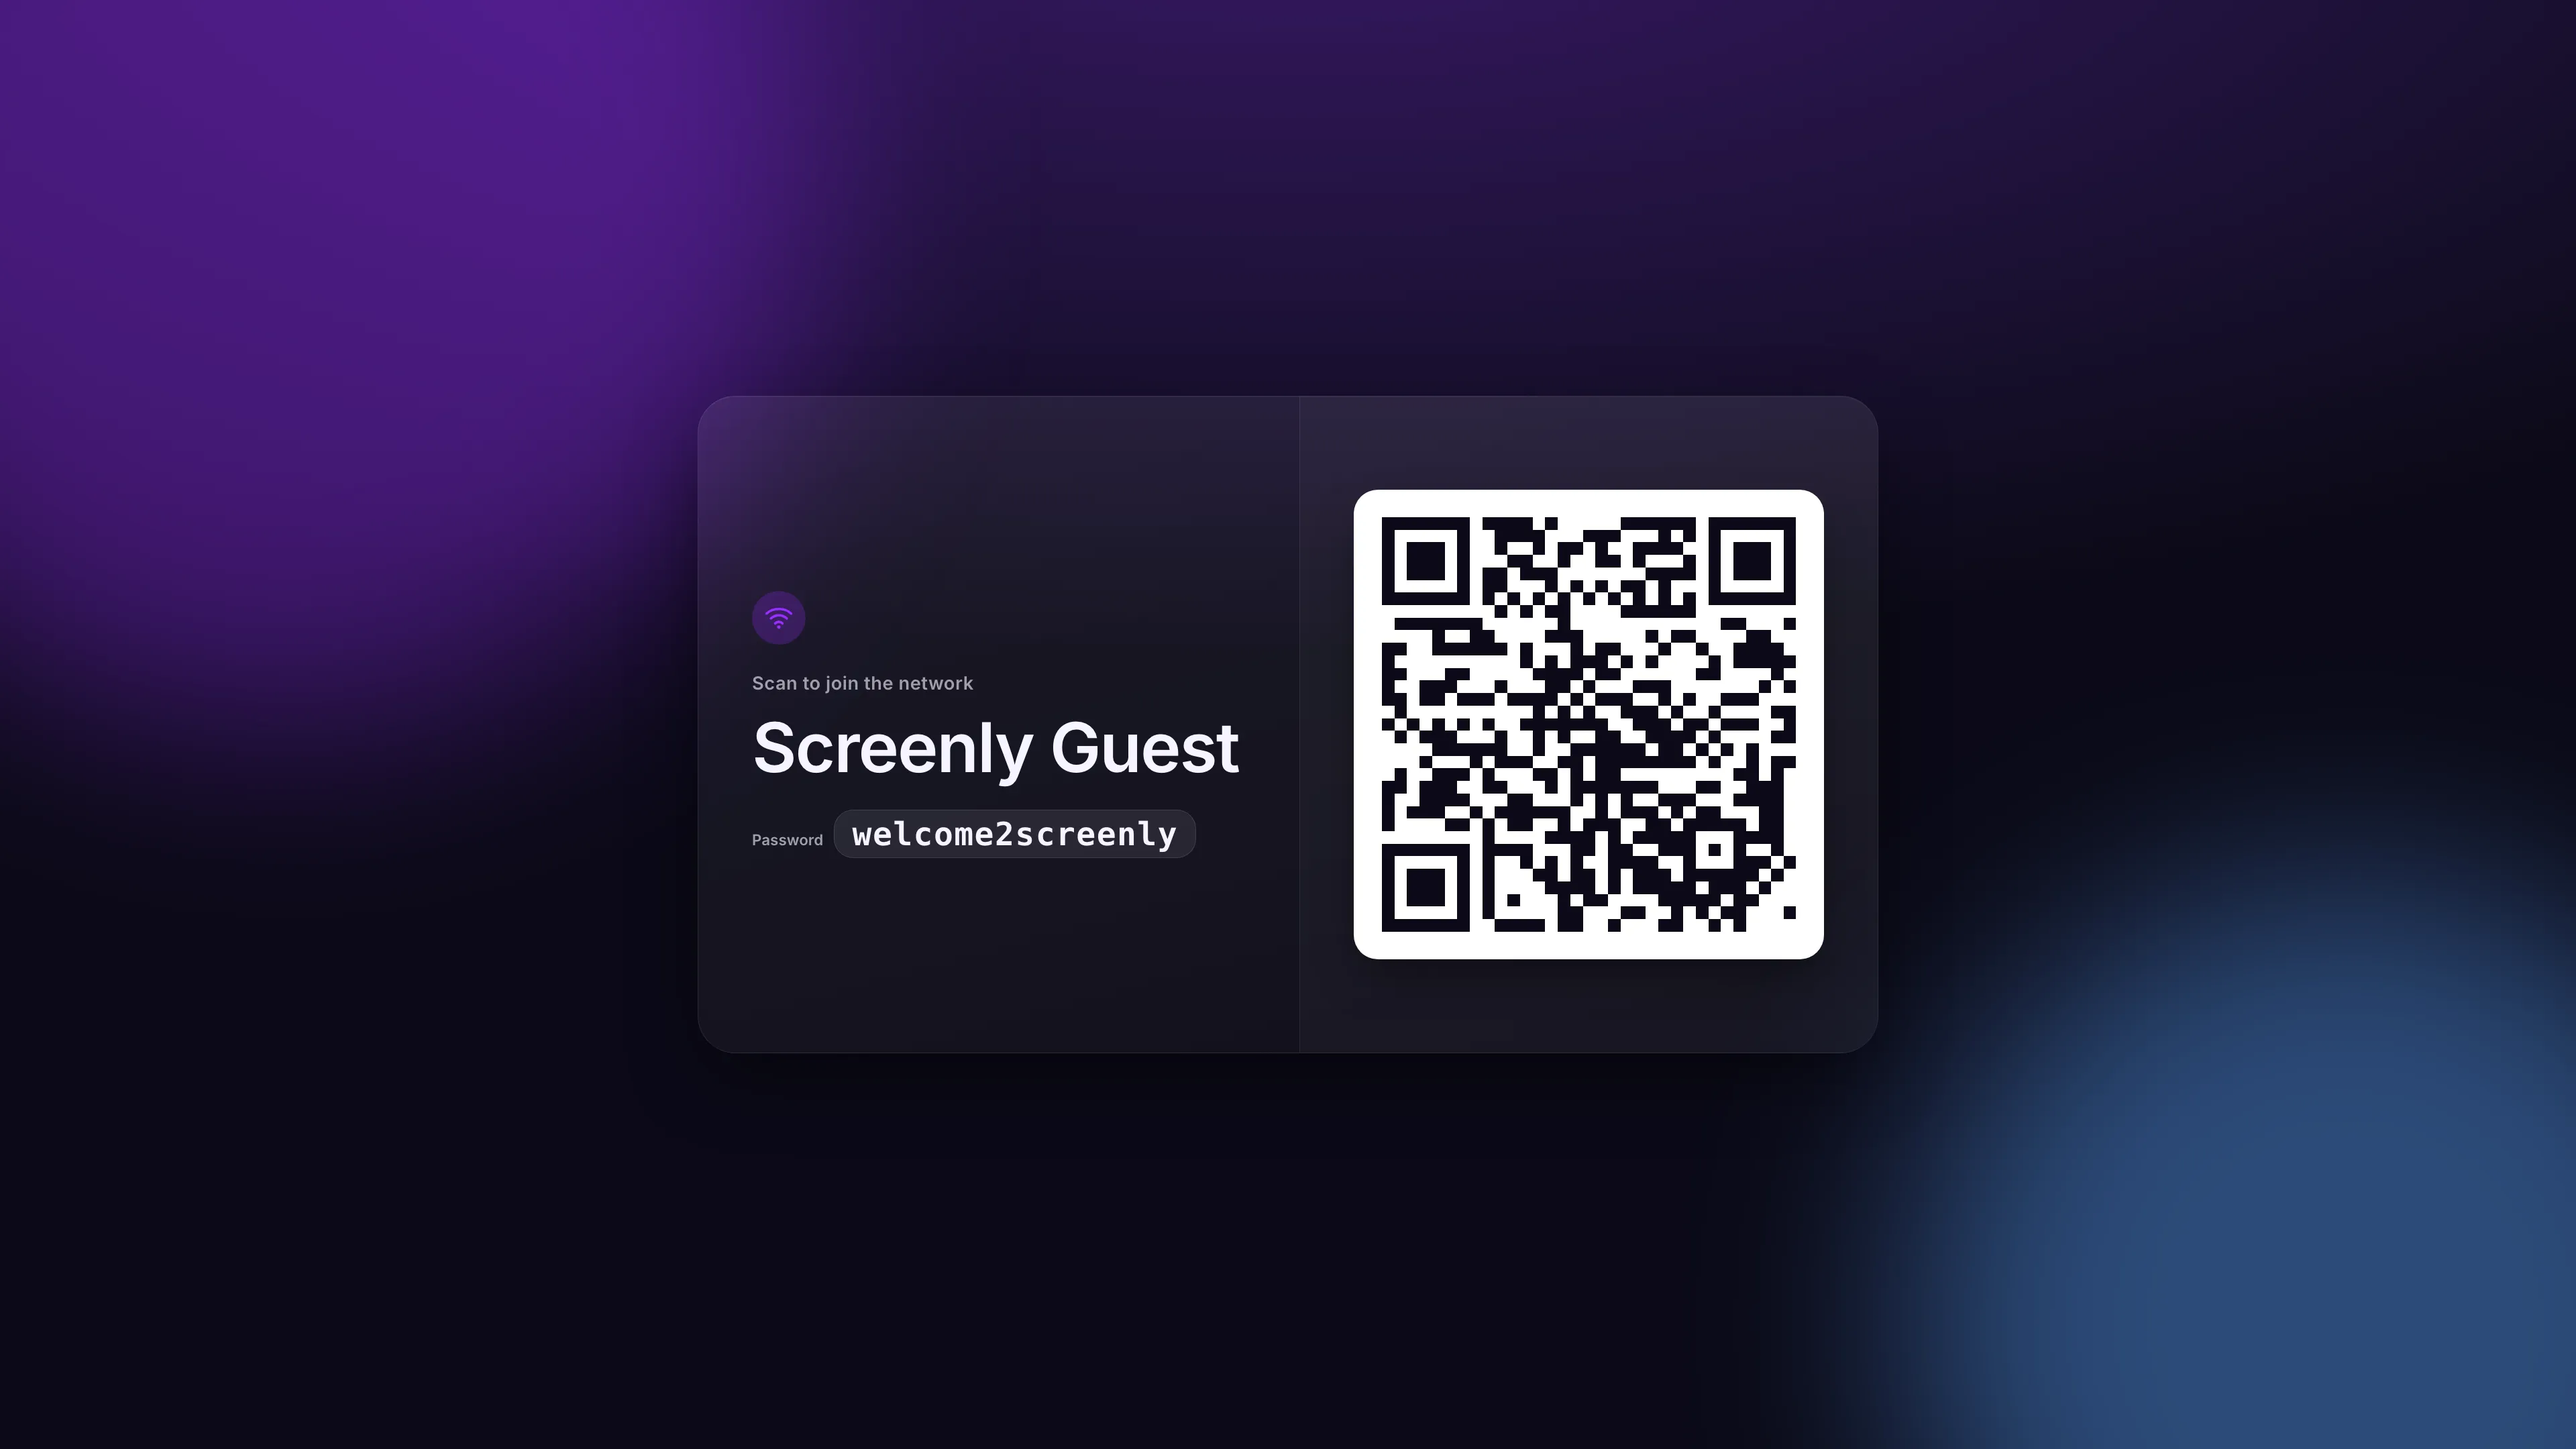
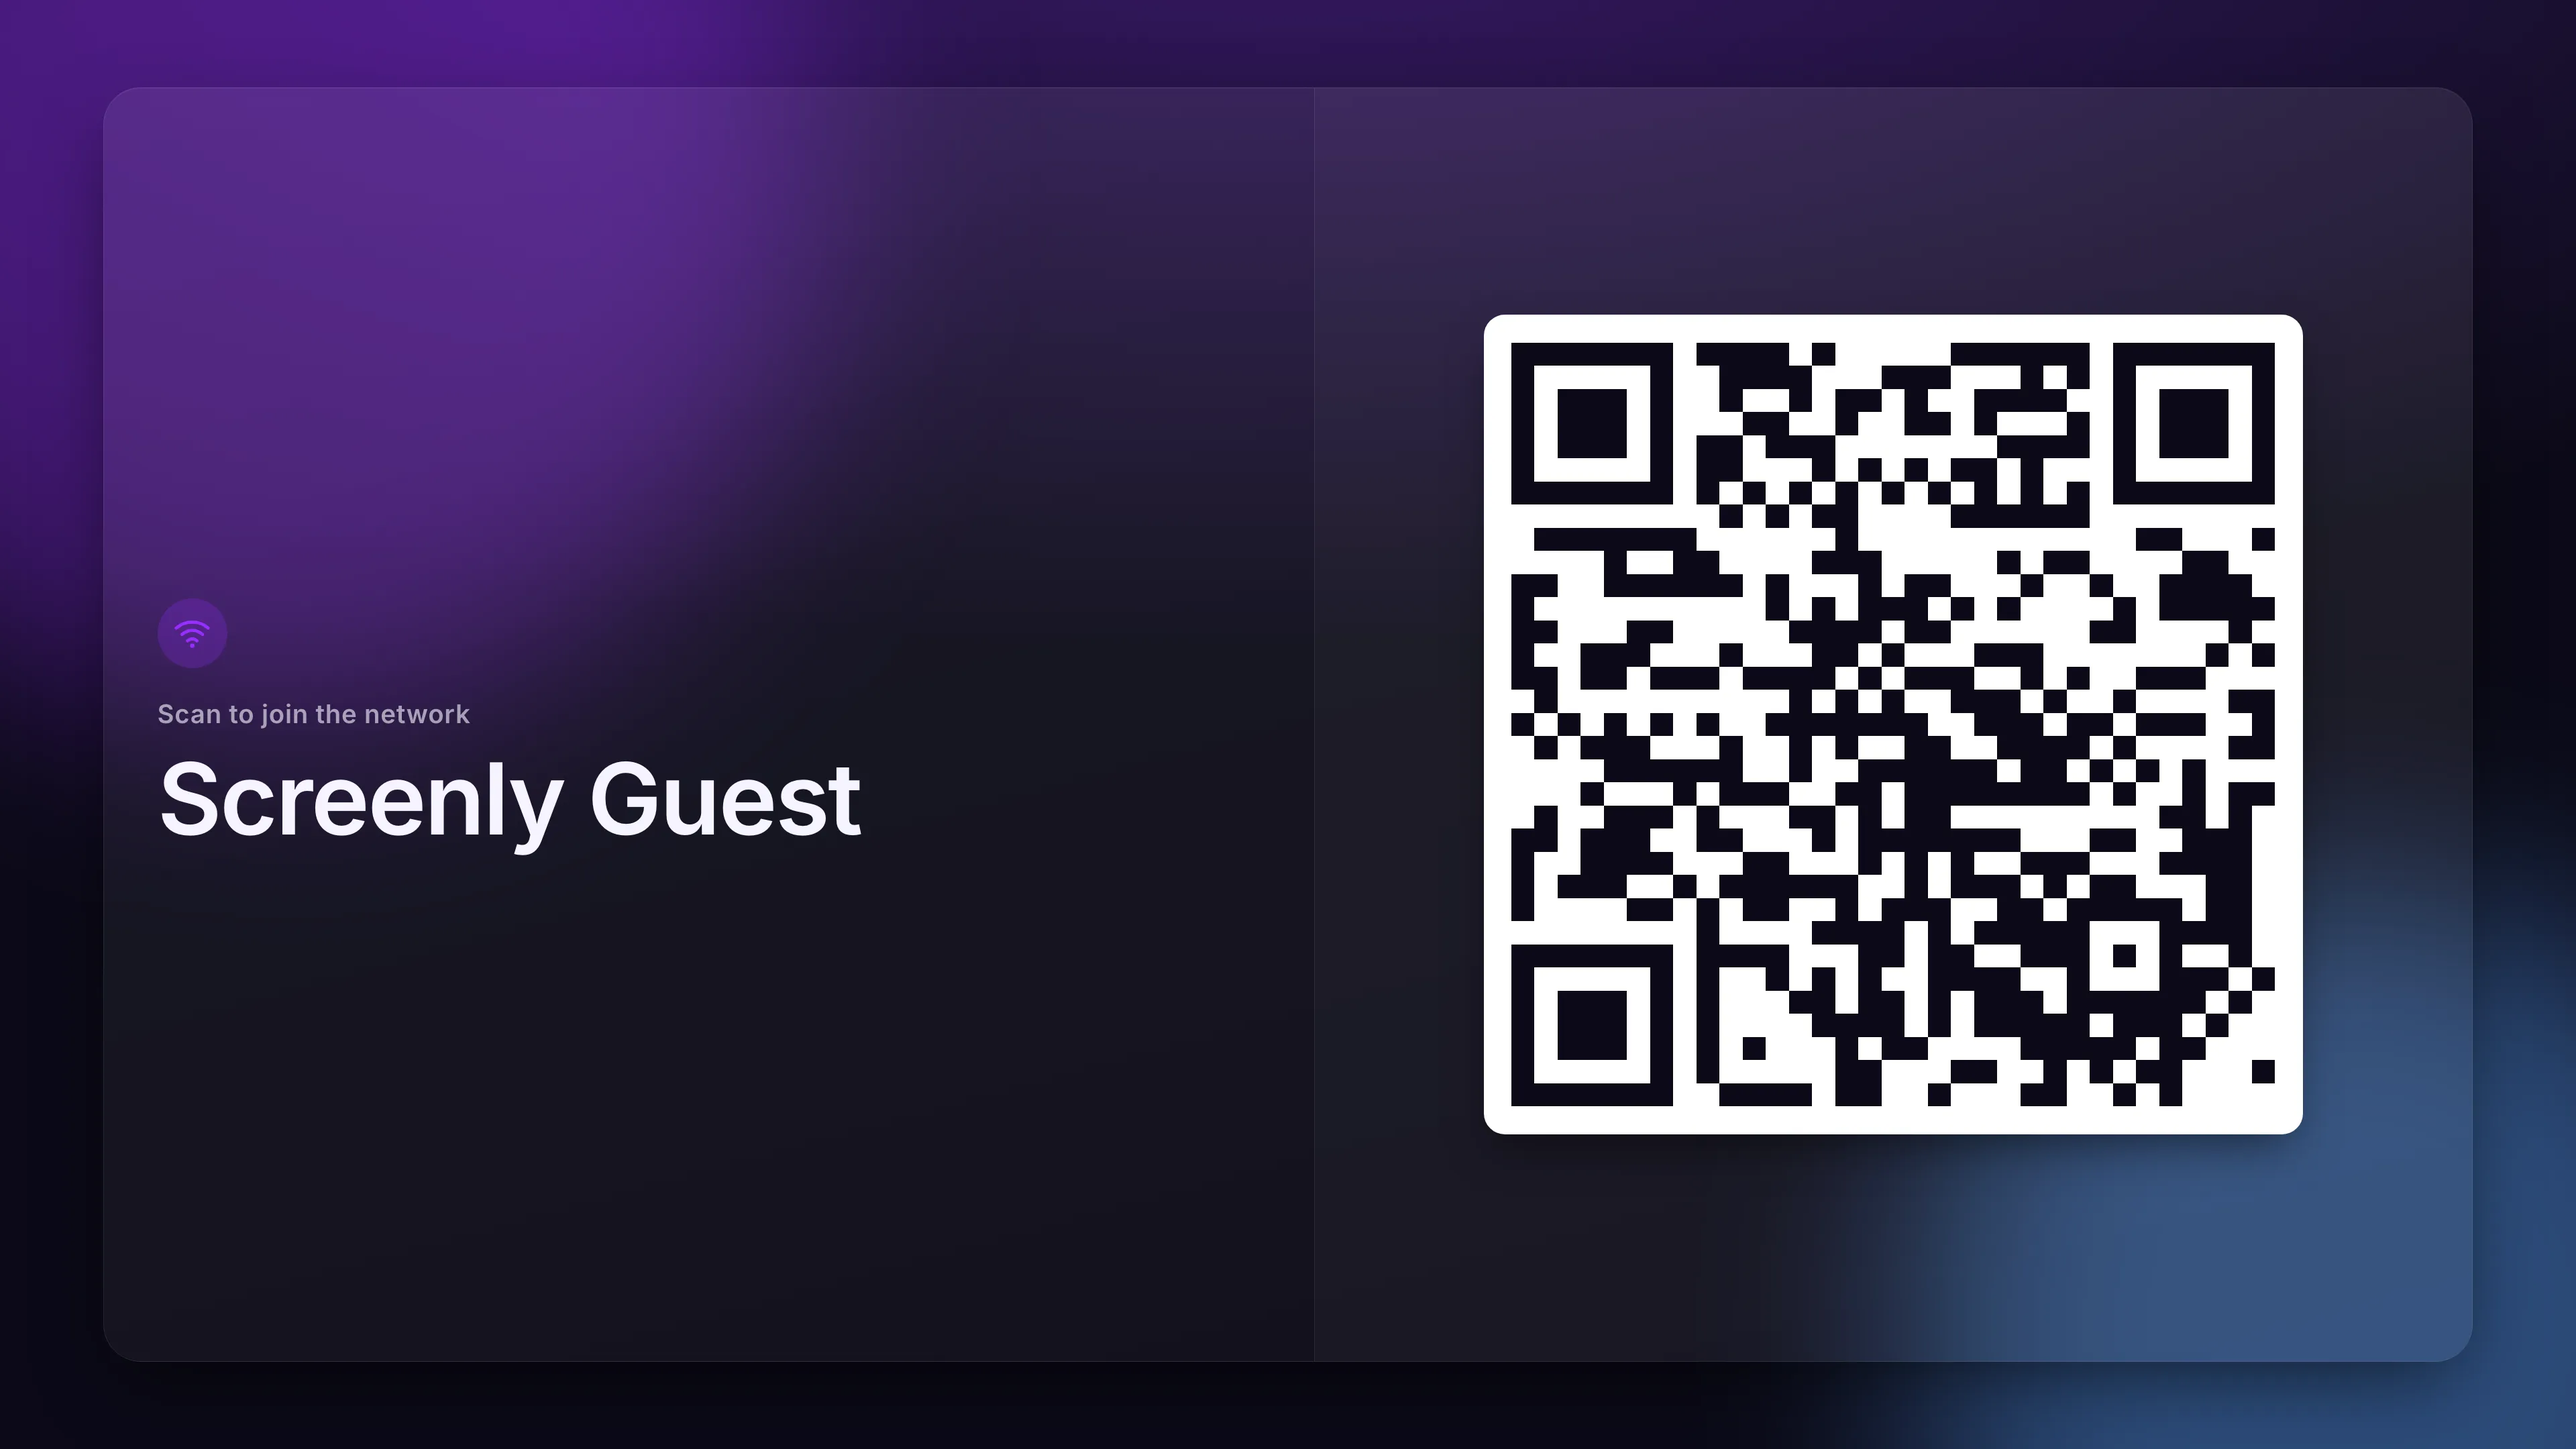
Fix card sizing across resolutions and hide the plaintext password
The card was capped at a fixed px width/height, so on resolutions far
from a typical monitor (e.g. 4096x2160, 2160x4096) it rendered as a
small block floating in mostly empty space instead of filling the
screen. Switch to pure vw/vh sizing with no pixel ceiling, and move
text/QR sizing onto CSS container queries (cqw/cqh) scoped to each
panel so they track the panel's actual box on any aspect ratio rather
than the raw viewport or a hardcoded breakpoint.

Also drop the visible password text entirely: the network name still
shows for identification, but the password now only ever exists
inside the QR code, never as text on screen or in the DOM.

Regenerated screenshots for all 10 resolutions.

diff --git a/src/style.css b/src/style.css
@@ -15,10 +15,10 @@
     box-sizing: border-box;
   }
 
-  /* `.password-row`/`.status-badge` below set `display: flex`, which has the
-     same specificity as the UA stylesheet's `[hidden] { display: none }` and
+  /* `.status-badge` below sets `display: flex`, which has the same
+     specificity as the UA stylesheet's `[hidden] { display: none }` and
      would otherwise win by being declared later. Restate it explicitly so
-     toggling the `hidden` property from main.ts actually hides them. */
+     toggling the `hidden` property from main.ts actually hides it. */
   [hidden] {
     display: none !important;
   }
@@ -84,13 +84,15 @@
     background: color-mix(in srgb, var(--accent) 40%, #14b8a6);
   }
 
-  /* Main card */
+  /* Main card. Sized as a share of the viewport with no fixed pixel ceiling
+     — Screenly displays range from small signage strips to 4K+ totems, and
+     a px cap tuned for one leaves the card floating tiny on the other. */
   .card {
     position: relative;
     z-index: 1;
     display: flex;
-    width: min(94vw, 1760px);
-    height: min(90vh, 980px);
+    width: 92vw;
+    height: 88vh;
     background: linear-gradient(
       165deg,
       rgba(255, 255, 255, 0.07),
@@ -109,26 +111,29 @@
     flex-direction: column;
     align-items: flex-start;
     justify-content: center;
-    padding: clamp(2.5rem, 4vw, 5rem);
+    padding: clamp(2rem, 4cqw, 5rem);
   }
 
   .panel--info {
     flex: 1.05 1 0;
     color: var(--ink);
-    gap: clamp(0.9rem, 1.6vh, 1.6rem);
+    gap: clamp(0.8rem, 2cqh, 1.6rem);
     min-width: 0;
+    /* Lets .eyebrow/.ssid scale off this panel's own box (cqw/cqh) instead
+       of the raw viewport, so text tracks the card's actual real estate. */
+    container-type: size;
   }
 
   .icon-badge {
     display: flex;
     align-items: center;
     justify-content: center;
-    width: clamp(3.4rem, 4.4vw, 5rem);
-    height: clamp(3.4rem, 4.4vw, 5rem);
+    width: clamp(3rem, 6cqh, 6.5rem);
+    height: clamp(3rem, 6cqh, 6.5rem);
     border-radius: 999px;
     background: color-mix(in srgb, var(--accent) 24%, transparent);
     color: var(--accent);
-    margin-bottom: clamp(0.5rem, 1vh, 1rem);
+    margin-bottom: clamp(0.5rem, 2cqh, 1.2rem);
   }
 
   .icon-badge svg {
@@ -138,7 +143,7 @@
 
   .eyebrow {
     margin: 0;
-    font-size: clamp(1.1rem, 1.6vw, 1.7rem);
+    font-size: clamp(1.1rem, 4cqh, 2.4rem);
     font-weight: 600;
     letter-spacing: 0.02em;
     color: var(--ink-dim);
@@ -147,7 +152,7 @@
   .ssid {
     margin: 0;
     max-width: 100%;
-    font-size: clamp(2.6rem, 6.2vw, 6.4rem);
+    font-size: clamp(2.4rem, min(9cqw, 14cqh), 9.5rem);
     line-height: 1.05;
     font-weight: 800;
     letter-spacing: -0.02em;
@@ -156,43 +161,17 @@
     overflow-wrap: anywhere;
   }
 
-  .password-row {
-    display: flex;
-    align-items: baseline;
-    flex-wrap: wrap;
-    gap: clamp(0.5rem, 1vw, 1rem);
-    margin-top: clamp(0.4rem, 1vh, 0.8rem);
-  }
-
-  .password-label {
-    font-size: clamp(1rem, 1.4vw, 1.4rem);
-    font-weight: 600;
-    color: var(--ink-dim);
-  }
-
-  .password {
-    font-family: 'SFMono-Regular', ui-monospace, Menlo, Consolas, monospace;
-    font-size: clamp(1.6rem, 3vw, 3rem);
-    font-weight: 700;
-    letter-spacing: 0.03em;
-    color: var(--ink);
-    padding: 0.15em 0.55em;
-    border-radius: 0.6em;
-    background: rgba(255, 255, 255, 0.08);
-    border: 1px solid rgba(255, 255, 255, 0.12);
-  }
-
   .status-badge {
     display: flex;
     align-items: center;
     gap: 0.6rem;
-    margin-top: clamp(0.4rem, 1vh, 0.8rem);
+    margin-top: clamp(0.4rem, 2cqh, 1rem);
     padding: 0.5em 1em;
     border-radius: 999px;
     background: rgba(255, 255, 255, 0.08);
     border: 1px solid rgba(255, 255, 255, 0.12);
     color: var(--ink-dim);
-    font-size: clamp(1rem, 1.3vw, 1.35rem);
+    font-size: clamp(1rem, 3cqh, 1.8rem);
     font-weight: 600;
   }
 
@@ -208,17 +187,21 @@
     justify-content: center;
     background: rgba(255, 255, 255, 0.03);
     border-left: 1px solid rgba(255, 255, 255, 0.08);
+    /* Lets .qr-frame size itself off whichever of this panel's own
+       dimensions is tighter (cqw/cqh), so the QR fills a consistent share
+       of its panel on any resolution or aspect ratio, landscape or portrait. */
+    container-type: size;
   }
 
   .qr-frame {
     display: flex;
     align-items: center;
     justify-content: center;
-    width: min(100%, 60vh);
+    width: min(78cqw, 78cqh);
     aspect-ratio: 1 / 1;
-    padding: clamp(1.4rem, 2.6vw, 2.6rem);
+    padding: clamp(1.2rem, 6cqw, 2.6rem);
     background: #ffffff;
-    border-radius: clamp(20px, 2vw, 36px);
+    border-radius: clamp(20px, 2cqw, 36px);
     box-shadow: 0 30px 70px -20px rgba(0, 0, 0, 0.55);
   }
 
@@ -237,30 +220,22 @@
   @media (orientation: portrait) {
     .card {
       flex-direction: column;
-      width: min(94vw, 900px);
-      height: min(92vh, 1500px);
+      width: 92vw;
+      height: 92vh;
     }
 
     .panel--info {
       align-items: center;
       text-align: center;
       order: 2;
-      flex: 1 1 auto;
+      flex: 1 1 0;
     }
 
     .panel--qr {
       order: 1;
       border-left: none;
       border-bottom: 1px solid rgba(255, 255, 255, 0.08);
-      flex: 1.1 1 auto;
-    }
-
-    .qr-frame {
-      width: min(80vw, 62vh);
-    }
-
-    .password-row {
-      justify-content: center;
+      flex: 1.1 1 0;
     }
   }
 }

diff --git a/src/main.ts b/src/main.ts
@@ -17,34 +17,28 @@ function escapeWifiValue(value: string): string {
 
 interface Translation {
   eyebrow: string
-  passwordLabel: string
   openNetwork: string
 }
 
 const TRANSLATIONS: Record<string, Translation> = {
   en: {
     eyebrow: 'Scan to join the network',
-    passwordLabel: 'Password',
     openNetwork: 'Open network – no password needed',
   },
   fr: {
     eyebrow: 'Scannez pour rejoindre le réseau',
-    passwordLabel: 'Mot de passe',
     openNetwork: 'Réseau ouvert – aucun mot de passe requis',
   },
   de: {
     eyebrow: 'Scannen, um dem Netzwerk beizutreten',
-    passwordLabel: 'Passwort',
     openNetwork: 'Offenes Netzwerk – kein Passwort erforderlich',
   },
   es: {
     eyebrow: 'Escanea para unirte a la red',
-    passwordLabel: 'Contraseña',
     openNetwork: 'Red abierta – no se necesita contraseña',
   },
   pt: {
     eyebrow: 'Escaneie para entrar na rede',
-    passwordLabel: 'Senha',
     openNetwork: 'Rede aberta – nenhuma senha necessária',
   },
 }
@@ -97,29 +91,20 @@ async function renderQRCode(payload: string): Promise<void> {
   })
 }
 
+// Password is never rendered as text — the QR code is the only way to join a
+// secured network, so the credential can't be read off the screen by anyone
+// who doesn't have their phone camera ready.
 function renderCredentials(
   { ssid, password, security }: WifiCredentials,
   translation: Translation,
 ) {
   document.getElementById('ssid')!.textContent = ssid
   document.getElementById('eyebrow')!.textContent = translation.eyebrow
-  document.getElementById('password-label')!.textContent =
-    translation.passwordLabel
   document.getElementById('open-badge-text')!.textContent =
     translation.openNetwork
 
-  const passwordRow = document.getElementById('password-row')!
-  const openBadge = document.getElementById('open-badge')!
   const isOpen = security === 'nopass' || !password
-
-  if (isOpen) {
-    passwordRow.hidden = true
-    openBadge.hidden = false
-  } else {
-    document.getElementById('password')!.textContent = password
-    passwordRow.hidden = false
-    openBadge.hidden = true
-  }
+  document.getElementById('open-badge')!.hidden = !isOpen
 }
 
 async function render(): Promise<void> {

diff --git a/index.html b/index.html
@@ -46,11 +46,6 @@
           <p id="eyebrow" class="eyebrow">Scan to join the network</p>
           <h1 id="ssid" class="ssid">&nbsp;</h1>
 
-          <div id="password-row" class="password-row" hidden>
-            <span id="password-label" class="password-label">Password</span>
-            <span id="password" class="password"></span>
-          </div>
-
           <div id="open-badge" class="status-badge" hidden>
             <svg
               viewBox="0 0 24 24"

diff --git a/README.md b/README.md
@@ -2,7 +2,7 @@
 
 Instantly share Wi-Fi credentials on your digital signage screens with this lightweight QR code generator for Screenly Edge Apps.
 
-Guests scan the on-screen QR code with their phone camera to join the network automatically — no typing required. The network name and password are also shown in large text as a fallback for people who'd rather type them in by hand.
+Guests scan the on-screen QR code with their phone camera to join the network automatically. The network name is shown as text for identification, but the password itself is never displayed — scanning the QR is the only way to connect, so it can't be read off the screen (or a photo of it) by anyone without their own phone in hand.
 
 ## Getting Started
 
@@ -52,7 +52,7 @@ Advanced settings:
 | `sentry_dsn`  | Sentry Client Key for error capturing                                                 | No       | —       |
 | `locale`      | Language for the on-screen text (`en`, `fr`, `de`, `es`, `pt`; falls back to English) | No       | `en`    |
 
-When `wifi_security` is `nopass`, or `wifi_password` is left blank, the app renders an open-network QR code and swaps the password display for an "Open network" badge instead.
+The password is only ever embedded in the QR code, never rendered as text. When `wifi_security` is `nopass`, or `wifi_password` is left blank, the app renders an open-network QR code and shows an "Open network" badge instead.
 
 ## Testing
 
